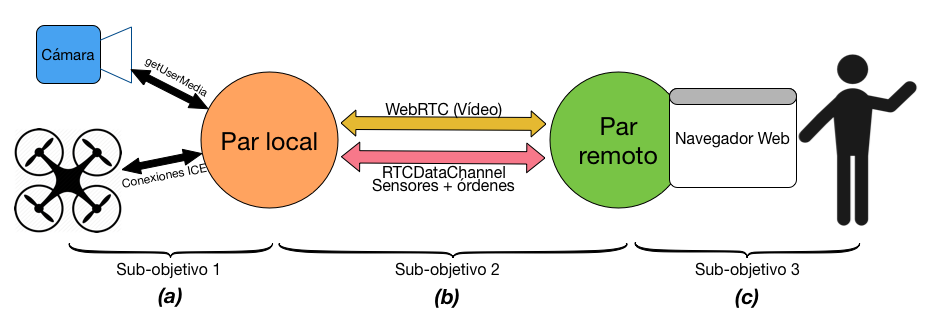
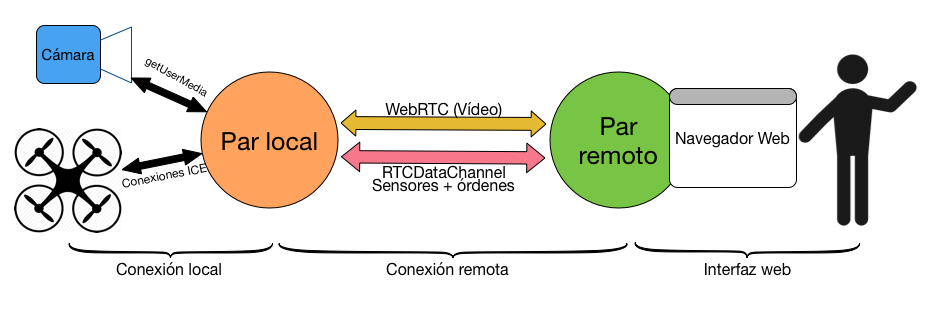
Version final

diff --git a/Presentacion/presentacion.tex b/Presentacion/presentacion.tex
@@ -38,7 +38,7 @@
 \begin{itemize}
 \item Introducción 
 \item Objetivos
-\item Infraestructura software
+\item Infraestructura
 \item Desarrollo software
 \item Experimentos
 \item Conclusiones
@@ -123,13 +123,13 @@ Sub-objetivos:
 %%--------------------------------------------------------------
 
 \begin{hslide}
-\slsect{Infraestructura software}
+\slsect{Infraestructura}
 \begin{minipage}[t]{0.7\textwidth}
 \begin{itemize}
-\item ArDrone2.0 de Parrot: drone sobre el que se basa el proyecto.
-\item Simulador Gazebo: Simula sensores,actuadores... del ArDrone en un mundo virtual.
-\item ICE: \emph{Middleware} para conexiones entre lenguajes y entre plataformas.
-\item JdeRobot: Se han usado dos drivers:
+\item ArDrone2.0 de Parrot
+\item Simulador Gazebo
+\item ICE: \emph{Middleware} para conexiones
+\item JdeRobot:
 \begin{itemize}
 \item \emph{Plugin de Gazebo}: Versión virtual del drone.
 \item \emph{ArDroneServer}: Servidor del drone real.
@@ -159,7 +159,7 @@ Sub-objetivos:
 \begin{hslide}
 \slsubsect{WebRTC}
 \begin{itemize}
-\item Tecnología web que permite comunicaciones entre navegadores en tiempo real.
+\item Tecnología de comunicaciones entre navegadores en tiempo real.
 \item Transmisión de audio, vídeo y datos.
 \item Sin necesidad de servidores intermedios.
 \end{itemize}
@@ -187,7 +187,7 @@ Sub-objetivos:
 %%--------------------------------------------------------------
 
 \begin{hslide}
-\slsubsect{Flujo de llamadas del proyecto}
+\slsubsect{Flujo de llamadas}
 \begin{center}
 \begin{figure}
 \includegraphics[width=0.8\textwidth]{img/diagrama_general}
@@ -198,8 +198,8 @@ Sub-objetivos:
 %%--------------------------------------------------------------
 
 \begin{hslide}
-\slsubsect{Conexión local}
-\begin{minipage}[t]{0.7\textwidth}
+\slsubsect{CONEXIÓN LOCAL}
+\begin{minipage}[t]{0.6\textwidth}
 \begin{itemize}
 \item Esta conexión se divide en dos a su vez:
 \begin{itemize}
@@ -209,10 +209,10 @@ Sub-objetivos:
 \end{itemize}
 
 \end{minipage}
-\begin{minipage}[t]{0.5\textwidth}
+\begin{minipage}[t]{0.6\textwidth}
 \begin{center}
 \begin{figure}
-\includegraphics[width=0.8\textwidth]{img/conexionlocal}
+\includegraphics[width=0.9\textwidth]{img/conexionlocal}
 \end{figure}
 \end{center}
 \end{minipage}
@@ -222,7 +222,7 @@ Sub-objetivos:
 %%--------------------------------------------------------------
 
 \begin{hslide}
-\slsubsect{Conexión local: ArDroneServer y WebSockets}
+\slsubsect{ArDroneServer y WebSockets}
 \begin{itemize}
 \item Para establecer la conexión se han activado los WebSockets de ICEJS en el archivo de configuración del servidor ArDroneServer.
 \end{itemize}
@@ -231,7 +231,7 @@ Sub-objetivos:
  Ice.Plugin.IceWS=IceWS:createIceWS
 \end{lstlisting}
 \begin{itemize}
-\item En el lado cliente se ha desarrollado la conexión con promesas de JavaScript.
+\item En el lado cliente la conexión mediante promesas de JavaScript.
 \end{itemize}
 
 \begin{center}
@@ -244,7 +244,7 @@ Sub-objetivos:
 %%--------------------------------------------------------------
 
 \begin{hslide}
-\slsubsect{Conexión local: getUserMedia}
+\slsubsect{getUserMedia}
 \begin{center}
 \begin{figure}
 \includegraphics[width=1.1\textwidth]{img/getusermedia}
@@ -256,15 +256,12 @@ Sub-objetivos:
 %%--------------------------------------------------------------
 
 \begin{hslide}
-\slsubsect{Conexión entre navegadores}
+\slsubsect{CONEXIÓN ENTRE NAVEGADORES}
 \begin{minipage}[t]{0.6\textwidth}
 \begin{itemize}
-\item Necesidad de un servidor de señalización para establecer la conexión: Descubrimiento de pares e intercambio de SDP.
-\item Dos funciones principales.
-\begin{itemize}
+\item Servidor de señalización para: Descubrimiento de pares e intercambio de SDP.
 \item Transferir el flujo audiovisual de la cámara.
 \item Intercambio de datos: sensores, órdenes.
-\end{itemize}
 \end{itemize}
 
 \end{minipage}
@@ -282,11 +279,11 @@ Sub-objetivos:
 %%--------------------------------------------------------------
 
 \begin{hslide}
-\slsubsect{Conexión entre navegadores: Servidor de señalización}
+\slsubsect{Servidor de señalización}
 \begin{itemize}
 \item Escrito en Node.js
-\item Encargado del intercambio de paquetes entre los pares con los descriptores de sesión y los candidatos ICE.
-\item Utilización de librería \emph{Socket.io} para el intercambio de paquetes a través de \emph{WebSockets} entre los navegadores.
+\item Intercambio de paquetes entre los pares con los descriptores de sesión y los candidatos ICE.
+\item Librería \emph{Socket.io} para el intercambio de paquetes a través de \emph{WebSockets} entre los navegadores.
 \item Desarrollado para satisfacer la arquitectura JSEP.
 \end{itemize}
 \end{hslide}
@@ -294,7 +291,7 @@ Sub-objetivos:
 %%--------------------------------------------------------------
 
 \begin{hslide}
-\slsubsect{Conexión entre navegadores: Transmisión de vídeo con RTCPeerConnection}
+\slsubsect{Transmisión de vídeo con RTCPeerConnection}
 \begin{itemize}
 \item Esta conexión se establece con la API \emph{RTCPeerConnection} de WebRTC.
 \end{itemize}
@@ -308,16 +305,16 @@ var PC=new RTCPeerConnection(ICE_config,pc_constraints);
 \end{itemize}
 \lstset{}
 \begin{lstlisting}
- PeerConnection.addStream(localStream);
+ PC.addStream(localStream);
 \end{lstlisting}
 \end{hslide}
 
 %%--------------------------------------------------------------
 
 \begin{hslide}
-\slsubsect{Conexión entre navegadores: Transmisión de datos con RTCDataChannel}
+\slsubsect{Transmisión de datos con RTCDataChannel}
 \begin{itemize}
-\item \emph{RTCDataChannel} de WebRTC nos permite transferir cualquier tipo de dato a través de \emph{RTCPeerConnection}.
+\item \emph{RTCDataChannel} de WebRTC permite transferir cualquier tipo de dato a través de \emph{RTCPeerConnection}.
 \end{itemize}
 \lstset{}
 \begin{lstlisting}
@@ -326,7 +323,7 @@ DC=PC.createDataChannel("droneDataChannel",{ordered:false});
 
 \begin{itemize}
 \item Transfiere desde el navegador local al navegador remoto los datos de los sensores del drone.
-\item Desde el par remoto al par local se transfiere las órdenes de movimiento dadas por el usuario final.
+\item Desde el par remoto al par local se transfieren las órdenes de movimiento dadas por el usuario final.
 \end{itemize}
 \end{hslide}
 
@@ -334,7 +331,7 @@ DC=PC.createDataChannel("droneDataChannel",{ordered:false});
 %%--------------------------------------------------------------
 
 \begin{hslide}
-\slsubsect{Conexión entre navegadores: Interfaz web de usuario en cliente remoto}
+\slsubsect{INTERFAZ WEB DE USUARIO EN CLIENTE REMOTO}
 \begin{center}
 \begin{figure}
 \includegraphics[width=0.9\textwidth]{img/interfazweb}
@@ -363,7 +360,7 @@ DC=PC.createDataChannel("droneDataChannel",{ordered:false});
 %%--------------------------------------------------------------
 
 \begin{hslide}
-\slsubsect{Experimento uno con drone real}
+\slsubsect{Experimento con drone real}
 \begin{itemize}
 \item Siguiente paso con el drone real sin poner a bordo el \emph{Computer Stick}.
 \end{itemize}
@@ -380,10 +377,10 @@ DC=PC.createDataChannel("droneDataChannel",{ordered:false});
 %%--------------------------------------------------------------
 
 \begin{hslide}
-\slsubsect{Experimento dos con drone real}
+\slsubsect{Experimento todo en drone real}
 \begin{itemize}
-\item \emph{Computer Stick} a bordo del drone. Este experimento valida el desarrollo del proyecto.
-\item El resultado del experimento es fallido.
+\item \emph{Computer Stick} a bordo del drone.
+\item El resultado del experimento es fallido: no puede con el peso.
 \item El peso de la cámara, el \emph{Computer Stick} y la pila para alimentarlo supera la carga de peso máxima permitida por este drone.
 \end{itemize}
 \end{hslide}
